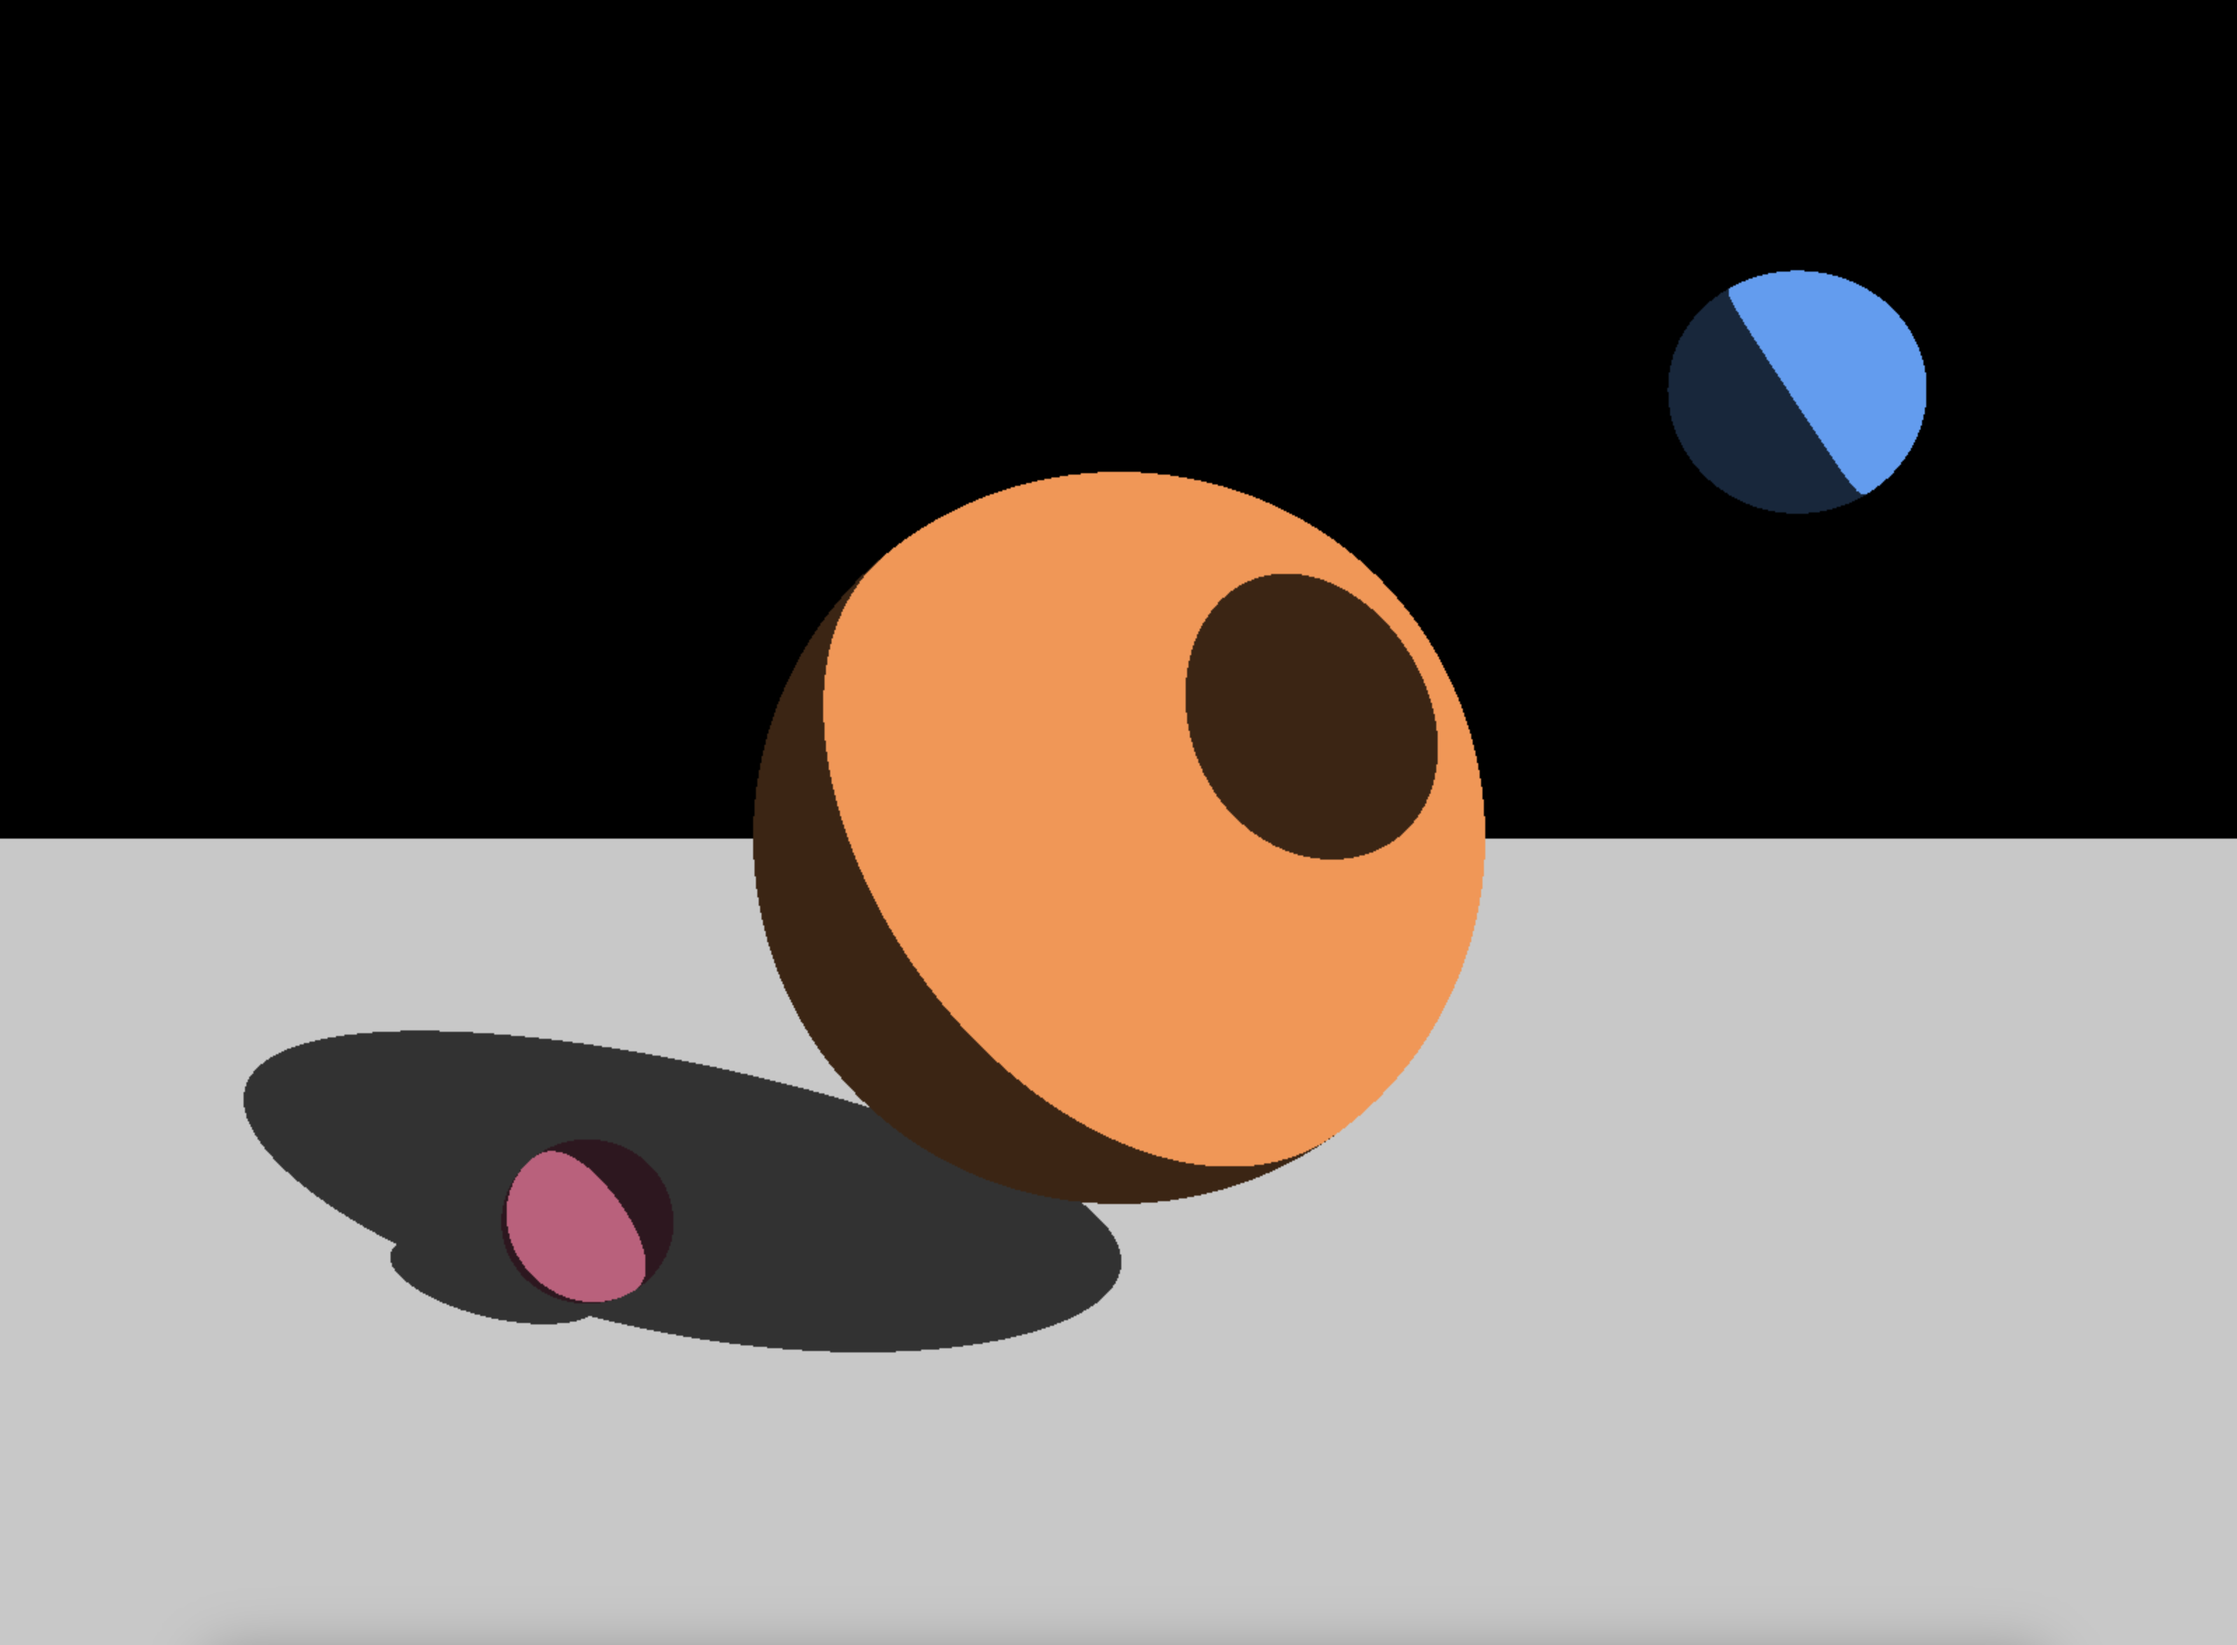
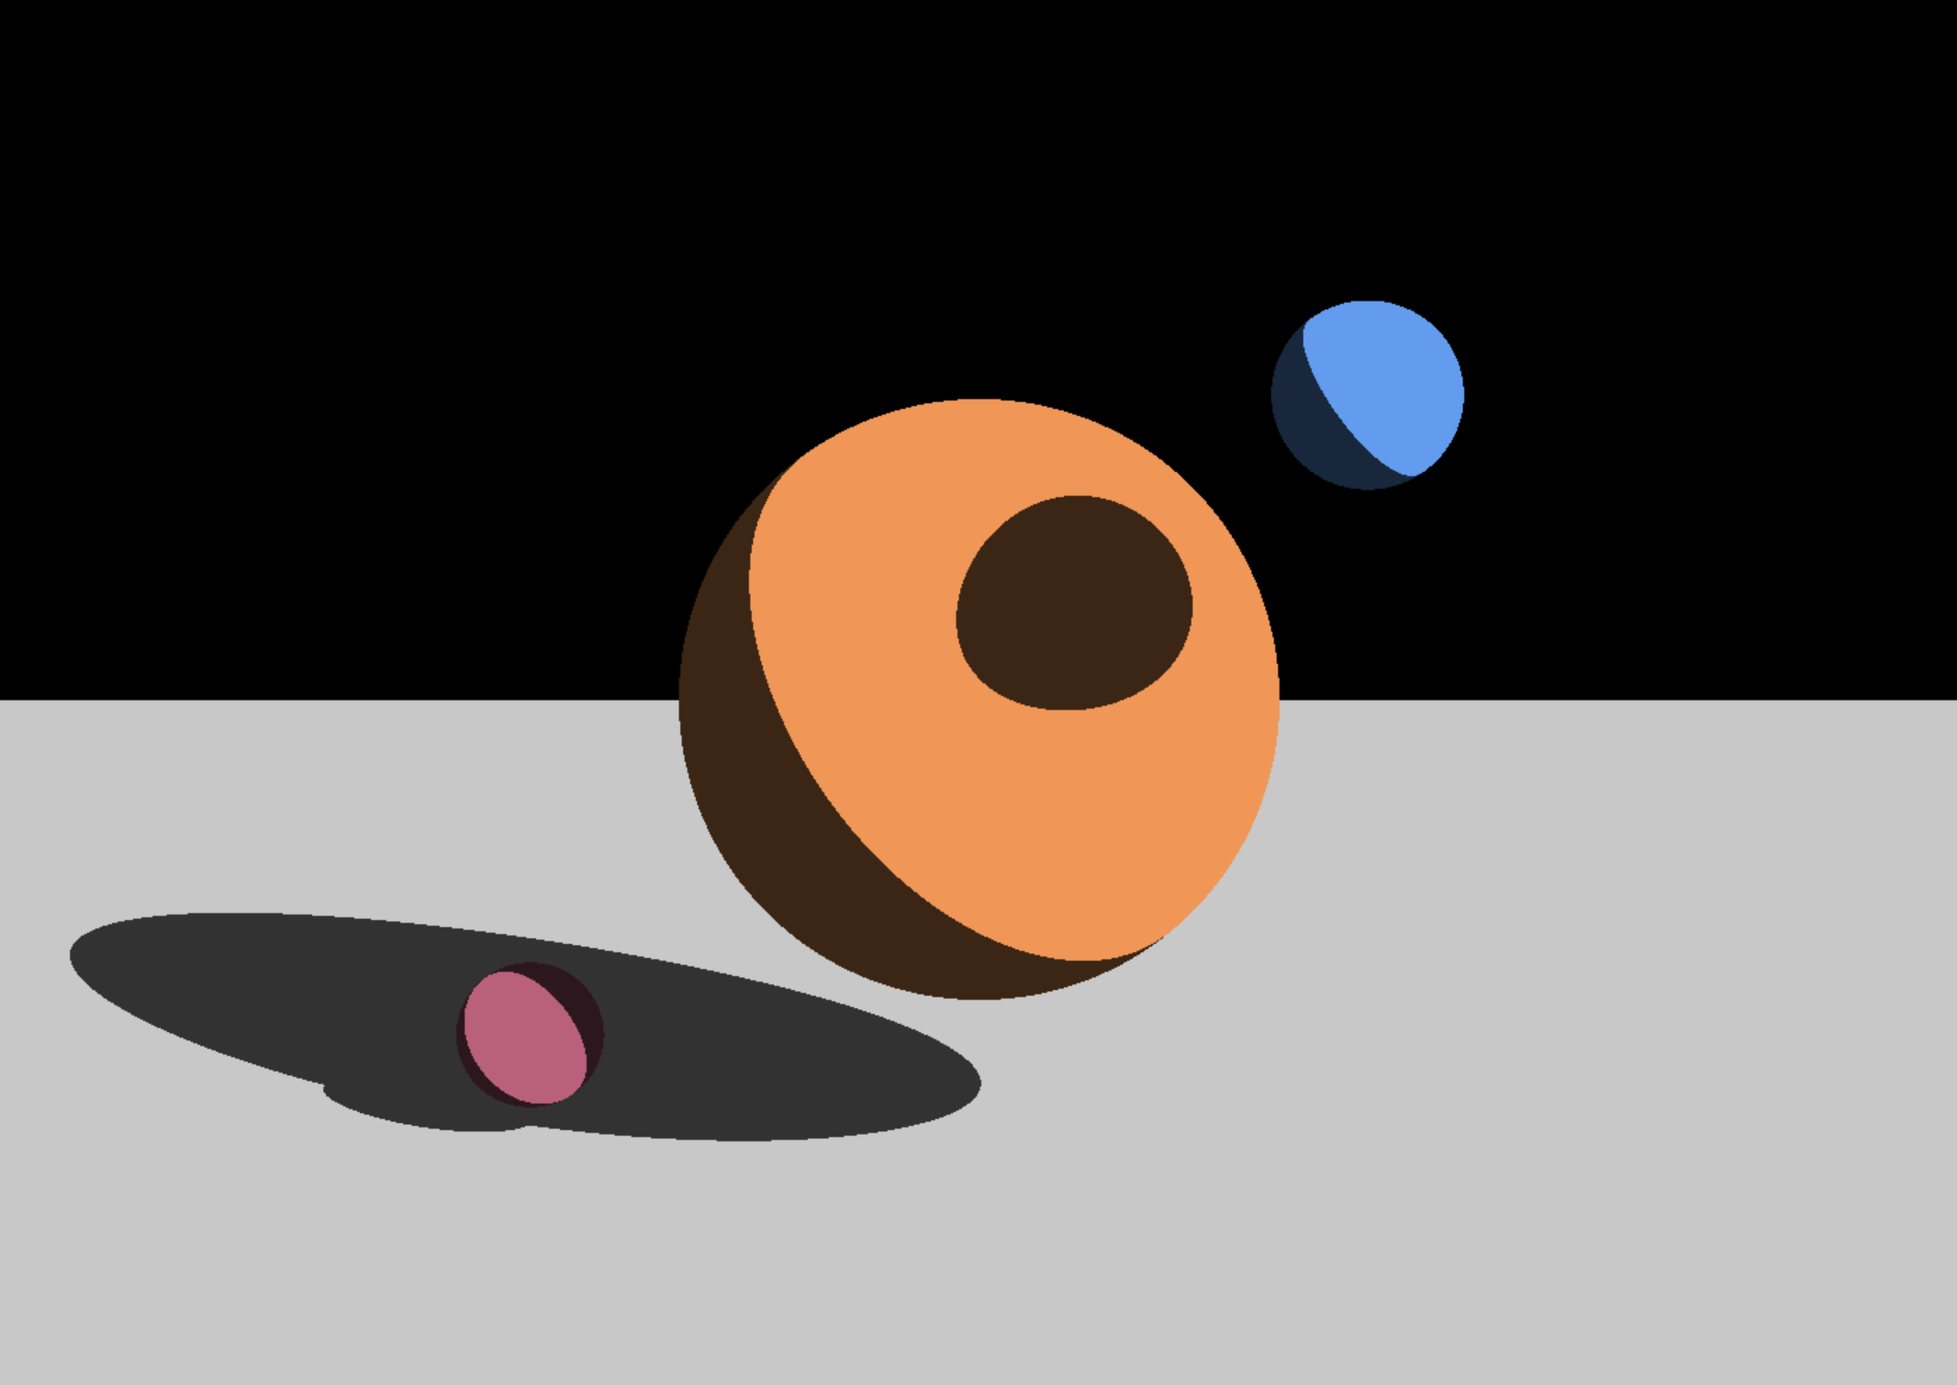
Neki dela ...

diff --git a/Code/render.py b/Code/render.py
@@ -23,6 +23,7 @@ class _RendererWorker:
             kot_step: float, 
             ray_origin: np.ndarray,
             ray_direction_deg: np.ndarray,
+            rotation_matrix: np.ndarray,
             objects: List[_IntersectableObject], 
             lights: List[Light], 
             space: _Space, 
@@ -32,19 +33,16 @@ class _RendererWorker:
 
         # For each pixel in the column
         for j in range(res_y):
-            true_ray_direction_deg = [ray_direction_deg[0]/np.cos(np.radians(ray_direction_deg[1])), ray_direction_deg[1]]
-            ray_direction_vec = vector_uvw.degrees_to_vector(true_ray_direction_deg)
-            ray = Ray(ray_origin, ray_direction_vec, ray_direction_deg)
+            # distortion_corrected_deg = [ray_direction_deg[0] * np.cos(np.radians(ray_direction_deg[1])), ray_direction_deg[1]] #Correct for distortion
+            ray_direction_vec = vector_uvw.degrees_to_vector(ray_direction_deg)
+            ray_direction_vec = np.dot(rotation_matrix, ray_direction_vec) # Rotate into the direction of the camera
+
+            ray = Ray(ray_origin, ray_direction_vec, ray_direction_deg) #TODO Pr 2 sphere uporablam to, ampak dela samo za kamera naravnost...
             
             image[j] = self._trace_ray(ray, objects, lights, space, background_color)
 
             # Obrnem ray
             ray_direction_deg[1] -= kot_step
-            # if ray_direction_deg[1] < -90:
-            #     odmik = ray_direction_deg[1] + 90
-            #     ray_direction_deg[1] = -90 - odmik
-            #     ray_direction_deg[0] += 180 if ray_direction_deg[0] < 0 else -180
-            #     kot_step = -kot_step
         
         self.logger.debug(f"Column {column_num} rendered.")
 
@@ -176,9 +174,15 @@ class Renderer:
         # Step size kota v x in y smeri
         kot_step = fov_x / res_x # Dejansko sta enaka, ker je piksel kvadraten.
 
-        # Initial smer raya zračunam kot polovica fov_x lavo in fov_y gor
-        ray_direction_deg = np.array([cam_u - (fov_x / 2), 
-                             cam_v + (fov_y / 2)])
+        # Initial smer raya, brez smeri kamere (upoštevam jo kasnej)
+        # ray_direction_deg = np.array([cam_u - (fov_x / 2),
+        #                               cam_v + (fov_y / 2)])
+        
+        ray_direction_deg = np.array([-fov_x / 2, 
+                                      fov_y / 2])
+        
+        # Rotacijska matrika za smer kamere
+        rotation_matrix = vector_uvw.get_rotation_matrix(camera.orientation)
 
         # Print and debug
         print("|start..........................................................................................end|")
@@ -197,11 +201,11 @@ class Renderer:
         for i in range(res_x):
             if parallel:
                 self.pool.apply_async(worker.run, 
-                                      args=(i, res_y, kot_step, camera.position, ray_direction_deg.copy(), 
+                                      args=(i, res_y, kot_step, camera.position, ray_direction_deg.copy(), rotation_matrix,
                                             scene.objects, scene.lights, scene.space, background_color),
                                       callback=lambda result: self._recieve_column(*result))
             else:
-                column, new_i = worker.run(i, res_y, kot_step, camera.position, ray_direction_deg.copy(), 
+                column, new_i = worker.run(i, res_y, kot_step, camera.position, ray_direction_deg.copy(), rotation_matrix,
                                                     scene.objects, scene.lights, scene.space, background_color)
                 self._recieve_column(column, new_i)
 

diff --git a/Code/main.py b/Code/main.py
@@ -9,11 +9,11 @@ from scene import Scene
 Scene.configure({"sphere": Sphere((7, 0, 0), 2, (255, 145, 71)), 
                   "sphere1": Sphere((4.3, 1.6, 2), 0.5, (79, 158, 245)), 
                   "sphere2": Sphere((6.7, -2.3, -3), 0.5, (198, 91, 124)), 
-                  # "plane": Plane((0, -3, 0), (0, 1, 0), (200, 200, 200)),
+                  "plane": Plane((0, -3, 0), (0, 1, 0), (200, 200, 200)),
                   "light": Light((0, 6, 8)), 
                   # "camera": Camera((0, 0, 0), (0, 0, 0), (1600, 1200), 170), # 127 za 90 stopinj levo desno fov
-                  "camera": Camera((0, 0, 0), (0, 0, 0), (200, 200), 180), # 127 za 90 stopinj levo desno fov
-                  "flattorus": FlatTorus()})
+                  "camera": Camera((-4, 2, 0), (0, 0, 0), (1400, 1000), 84), # 127 za 90 stopinj levo desno fov
+                  "twosphere": TwoSphere(13)})
 
 from ui import _UIThread
 _UIThread.configure(1)

diff --git a/Code/utilities.py b/Code/utilities.py
@@ -50,9 +50,10 @@ class vector_uvw:
         pan, tilt, roll = rotation
 
         # Convert degrees to radians
+        pan_rad = np.radians(pan)
         tilt_rad = np.radians(tilt)
         roll_rad = np.radians(roll)
-        pan_rad = np.radians(pan)
+        
 
         # Rotation matrix around the y-axis (pan) 
         R_y = np.array([
